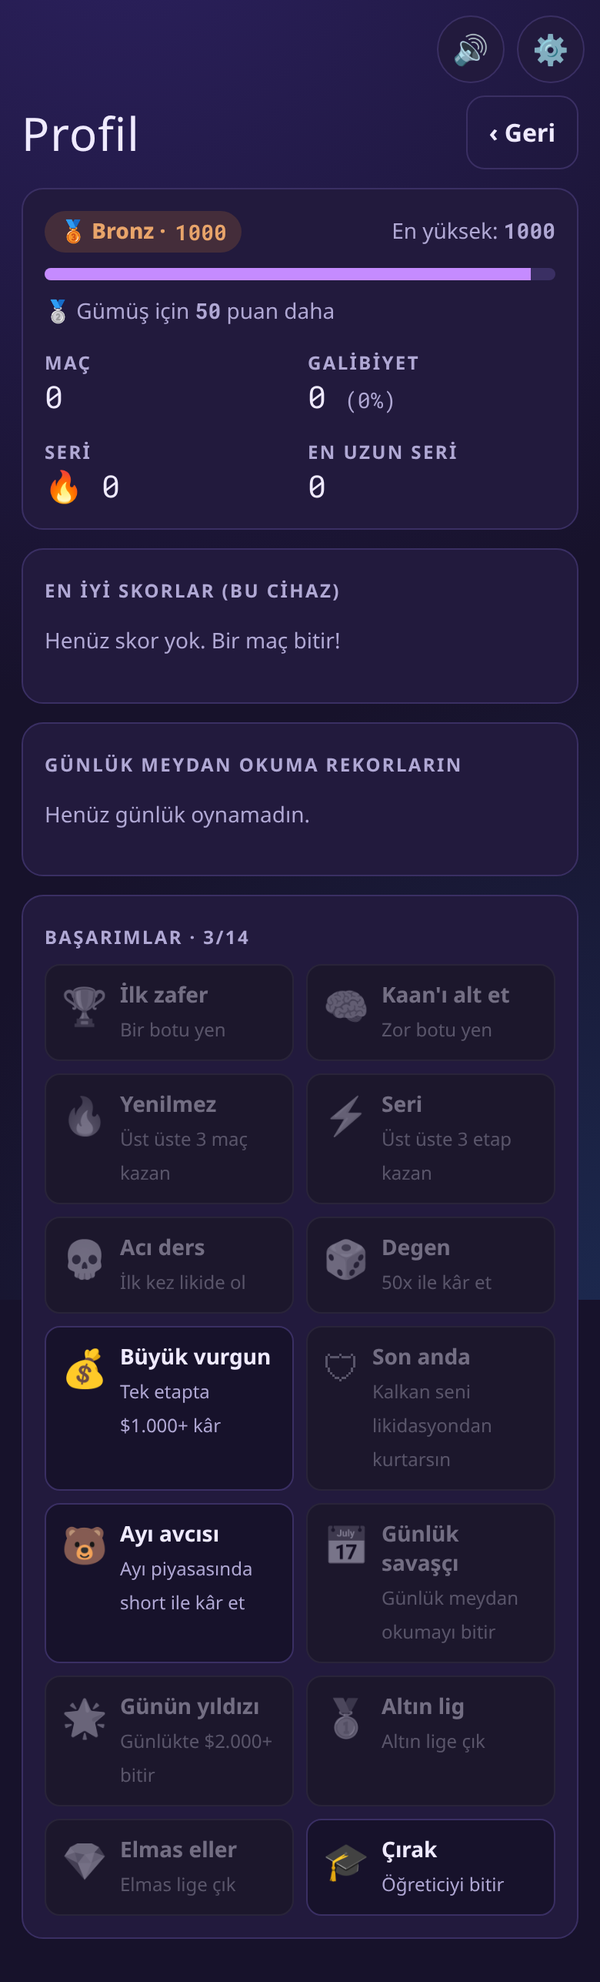
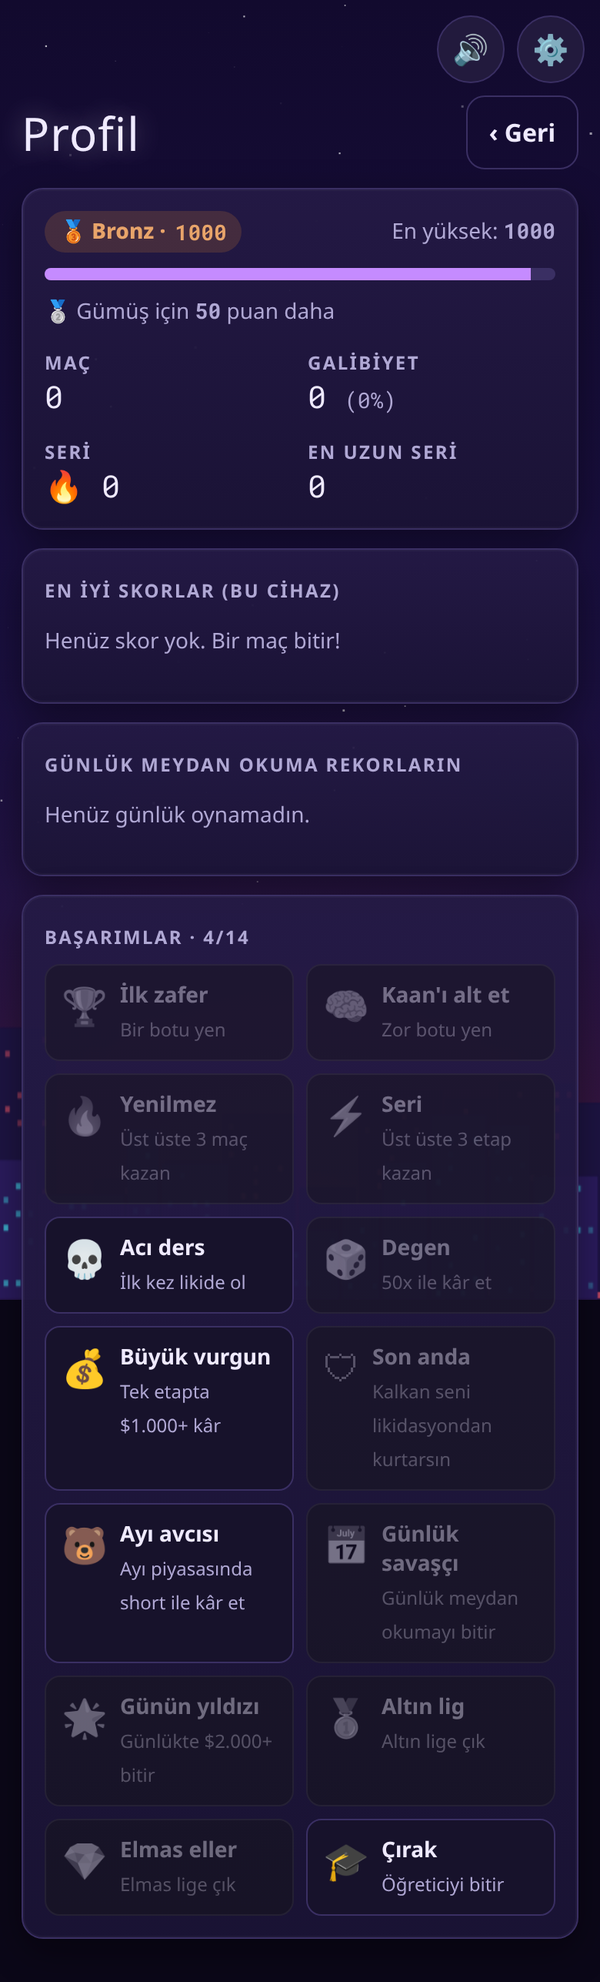
v2.2.0: arena oyun hissi, VS intro, efektler, ödüller, 300ms mum

diff --git a/index.html b/index.html
@@ -175,10 +175,74 @@ td:last-child,th:last-child{text-align:right}
 .sw::after{content:"";position:absolute;left:4px;top:4px;width:24px;height:24px;border-radius:50%;background:#fff;transition:left .15s}
 .sw.on{background:var(--up)} .sw.on::after{left:28px}
 details summary{cursor:pointer;font-weight:700}
+
+/* ===== OYUN HİSSİ: neon arena ===== */
+body{background:#0b0718}
+#bg{position:fixed;inset:0;z-index:-1;width:100%;height:100%;pointer-events:none}
+.card{background:linear-gradient(180deg,#241a45f0,#1b1436f0);box-shadow:0 0 0 1px #ffffff08 inset,0 8px 24px #0006}
+.chartbox{border-color:#5b44c9;box-shadow:0 0 22px #6a4cff40,inset 0 0 40px #6a4cff22;background:linear-gradient(180deg,#140f2b,#0e0a1f)}
+.big{position:relative;overflow:hidden;box-shadow:0 6px 0 rgba(0,0,0,.4),0 0 18px #ffd45c33;text-shadow:0 1px 0 #fff6}
+.big::after{content:"";position:absolute;top:0;left:-60%;width:40%;height:100%;background:linear-gradient(100deg,transparent,#ffffff55,transparent);animation:shine 3s infinite;pointer-events:none}
+@keyframes shine{0%{left:-60%}55%,100%{left:130%}}
+.big:active:not(:disabled){transform:translateY(4px) scale(.985);box-shadow:0 2px 0 rgba(0,0,0,.4)}
+.dirbtn{transition:transform .12s cubic-bezier(.2,1.6,.4,1)}
+.dirbtn.on{transform:scale(1.04)} .dirbtn:active{transform:scale(.93)}
+.closebtn{box-shadow:0 5px 0 rgba(0,0,0,.4)}
+.closebtn:not(:disabled){animation:glowp 1.1s infinite}
+.closebtn:active:not(:disabled){transform:translateY(3px);box-shadow:0 2px 0 rgba(0,0,0,.4)}
+@keyframes glowp{50%{filter:brightness(1.18);box-shadow:0 5px 0 rgba(0,0,0,.4),0 0 24px #ffd45caa}}
+h1,h2{text-shadow:0 0 18px color-mix(in srgb,currentColor 40%,transparent)}
+.arena{position:relative;display:grid;grid-template-columns:1fr auto 1fr;align-items:center;gap:6px;padding:10px 10px 8px;border-radius:16px;background:radial-gradient(ellipse at 50% 120%,#ff5c6c33,transparent 60%),linear-gradient(180deg,#2a1d5a,#160f33);border:1px solid #5b44c9;box-shadow:0 0 24px #6a4cff44}
+.fighter{display:flex;flex-direction:column;align-items:center;gap:4px;min-width:0}
+.ava{width:62px;height:62px;border-radius:50%;display:grid;place-items:center;font-size:36px;line-height:1;background:radial-gradient(circle at 35% 30%,#ffffff33,transparent 60%),var(--c);box-shadow:0 0 0 3px var(--c),0 0 20px var(--c);position:relative;animation:idle 2.2s ease-in-out infinite;will-change:transform}
+.ava.p1{--c:color-mix(in srgb,var(--p1) 65%,#1a1430)} .ava.p2{--c:color-mix(in srgb,var(--p2) 55%,#1a1430)} .ava.mk{--c:color-mix(in srgb,var(--down) 55%,#1a1430)}
+@keyframes idle{50%{transform:translateY(-4px)}}
+.ava.cheer{animation:cheer .5s ease-in-out infinite}
+@keyframes cheer{0%,100%{transform:translateY(0) rotate(0)}30%{transform:translateY(-11px) rotate(-9deg) scale(1.06)}60%{transform:translateY(-4px) rotate(9deg)}}
+.ava.hurt{animation:hurt .28s linear infinite;filter:saturate(.6) brightness(.85)}
+@keyframes hurt{25%{transform:translateX(-4px)}75%{transform:translateX(4px)}}
+.ava.ko{filter:grayscale(1) brightness(.55);transform:rotate(90deg);animation:none}
+.ava .emo{position:absolute;right:-10px;top:-10px;font-size:22px;filter:drop-shadow(0 2px 2px #000)}
+.hp{width:100%;height:12px;border-radius:6px;background:#0009;border:1px solid #ffffff30;overflow:hidden}
+.hp i{display:block;height:100%;transition:width .3s;background:linear-gradient(90deg,#2fbf6f,#b6ffd6);box-shadow:0 0 10px #4fd18b}
+.hp.mid i{background:linear-gradient(90deg,#e0a800,#fff1b8);box-shadow:0 0 10px var(--warn)} .hp.low i{background:linear-gradient(90deg,#d8243a,#ffb0b8);box-shadow:0 0 10px var(--down)}
+.fname{font-size:12px;font-weight:800;text-transform:uppercase;letter-spacing:1px;max-width:100%;overflow:hidden;text-overflow:ellipsis;white-space:nowrap}
+.fbal{font-family:var(--mono);font-size:13px;font-weight:800}
+.vs{font-family:var(--display);font-size:32px;color:var(--warn);text-shadow:0 0 12px var(--warn),0 0 30px #ff5c6c;animation:vsp 1.4s ease-in-out infinite}
+@keyframes vsp{50%{transform:scale(1.12)}}
+#vsov{position:fixed;inset:0;z-index:19;background:radial-gradient(circle at 50% 45%,#3a238aee,#0b0718f8 70%);overflow:hidden}
+#vsov::before{content:"";position:absolute;inset:-50%;background:repeating-conic-gradient(from 0deg,#ffffff08 0 8deg,transparent 8deg 16deg);animation:spin 12s linear infinite}
+@keyframes spin{to{transform:rotate(360deg)}}
+#vsov .side{position:absolute;top:26%;display:flex;flex-direction:column;align-items:center;gap:10px;width:42%}
+#vsov .l{left:4%;animation:inL .55s cubic-bezier(.2,1.4,.4,1) both} #vsov .r{right:4%;animation:inR .55s cubic-bezier(.2,1.4,.4,1) both}
+#vsov .ava{width:108px;height:108px;font-size:64px}
+#vsov .bvs{position:absolute;left:0;right:0;top:30%;text-align:center;font-family:var(--display);font-size:92px;color:var(--warn);text-shadow:0 0 20px var(--warn),0 0 60px var(--down),0 6px 0 #000;animation:slam .45s .45s cubic-bezier(.2,1.6,.4,1) both}
+#vsov .info{position:absolute;left:16px;right:16px;bottom:20%;text-align:center;animation:fadeUp .4s .75s both}
+#vsov .info h2{font-size:44px}
+@keyframes inL{from{transform:translateX(-170%)}} @keyframes inR{from{transform:translateX(170%)}}
+@keyframes slam{from{transform:scale(4) rotate(-14deg);opacity:0}}
+@keyframes fadeUp{from{transform:translateY(30px);opacity:0}}
+#vsov.out{animation:fo .3s forwards} @keyframes fo{to{opacity:0}}
+.callout{position:fixed;left:50%;top:36%;z-index:26;font-family:var(--display);font-size:clamp(46px,14vw,76px);white-space:nowrap;pointer-events:none;letter-spacing:1px;-webkit-text-stroke:2px #1a1430;text-shadow:0 0 22px currentColor,0 6px 0 #1a1430;animation:co 1.4s cubic-bezier(.2,1.5,.4,1) forwards}
+.callout small{display:block;text-align:center;font-size:.36em;-webkit-text-stroke:0;color:#fff}
+@keyframes co{0%{transform:translate(-50%,-50%) scale(.2) rotate(-10deg);opacity:0}18%{transform:translate(-50%,-50%) scale(1.15) rotate(-4deg);opacity:1}30%{transform:translate(-50%,-50%) scale(1) rotate(-4deg)}80%{opacity:1}100%{transform:translate(-50%,-85%) scale(1) rotate(-4deg);opacity:0}}
+.count{font-size:120px;background:#0007;text-shadow:0 0 20px var(--warn),0 0 50px var(--down),0 6px 0 #000}
+.shk{animation:shk .25s}
+@keyframes shk{25%{transform:translate(-4px,2px)}50%{transform:translate(4px,-2px)}75%{transform:translate(-2px,1px)}}
+.trophy{font-size:100px;text-align:center;line-height:1.1;animation:tro 1s cubic-bezier(.2,1.6,.4,1) both;filter:drop-shadow(0 0 26px var(--warn))}
+@keyframes tro{from{transform:scale(0) rotate(-30deg)}}
+.reward{display:grid;grid-template-columns:1fr 1fr;gap:10px}
+.rw{background:var(--bg);border:1px solid var(--line);border-radius:12px;padding:10px;text-align:center}
+.rw b{font-family:var(--display);font-size:30px;display:block;color:var(--warn);text-shadow:0 0 12px #ffd45c88}
+.xpbar{height:16px;border-radius:8px;background:#0009;overflow:hidden;border:1px solid #ffffff25}
+.xpbar i{display:block;height:100%;width:0;background:linear-gradient(90deg,var(--boss),var(--p2));box-shadow:0 0 14px var(--boss);transition:width 1.2s cubic-bezier(.2,.8,.2,1)}
+.lvchip{display:inline-flex;gap:6px;align-items:center;font-weight:800;font-size:13px;color:var(--fg)}
+@media (prefers-reduced-motion:reduce){.ava,.vs,.big::after,.closebtn,#vsov::before,.trophy,.callout{animation:none!important}}
 </style>
 </head>
 <body style="margin:0">
 <div class="topbtns"><button id="mute" aria-label="Sesi aç/kapat">🔊</button><button id="gear" aria-label="Ayarlar">⚙</button></div>
+<canvas id="bg"></canvas>
 <div id="flash"></div>
 <canvas id="cf"></canvas>
 <div id="toast" hidden></div>
@@ -188,7 +252,7 @@ details summary{cursor:pointer;font-weight:700}
 // ===== KAYIT =====
 const ST={k:'ba2',d:{},
  load(){try{this.d=JSON.parse(localStorage.getItem(this.k))||{};}catch(e){this.d={};}
-  const def={vol:.8,sfx:.9,mus:.5,muted:false,music:true,hap:true,timer:25,tutDone:false,rating:1000,peak:1000,games:0,wins:0,mstreak:0,bestMStreak:0,ach:{},lb:[],daily:{}};
+  const def={xp:0,lvl:1,coins:0,vol:.8,sfx:.9,mus:.5,muted:false,music:true,hap:true,timer:25,tutDone:false,rating:1000,peak:1000,games:0,wins:0,mstreak:0,bestMStreak:0,ach:{},lb:[],daily:{}};
   for(const k in def)if(this.d[k]===undefined)this.d[k]=def[k];
   try{if(localStorage.getItem('ba_mute')==='1'&&!localStorage.getItem(this.k))this.d.muted=true;
    for(let i=0;i<localStorage.length;i++){const k=localStorage.key(i);if(k&&k.startsWith('ba_best_')){const dt=k.slice(8),v=+localStorage.getItem(k);if(!(this.d.daily[dt]>=v))this.d.daily[dt]=v;}}}catch(e){}},
@@ -273,6 +337,9 @@ const AU={ctx:null,tense:false,step:0,nextT:0,
    case'bonus':[784,988,1175,1568,1976].forEach((f,i)=>T(f,.3,'triangle',.1,t+i*.07,{echo:1}));break;
    case'ach':[1047,1319,1568,2093].forEach((f,i)=>T(f,.35,'sine',.08,t+i*.08,{echo:1}));N(.6,.05,t,{type:'highpass',f:8000});break;
    case'boss':T(55,1.8,'sawtooth',.22,t,{slide:41,echo:1});T(110,1.6,'square',.07,t,{slide:82});this.kick(t,.7,this.sfxBus);this.kick(t+.45,.5,this.sfxBus);break;
+   case'vs':N(.5,.25,t,{type:'bandpass',f:400,fEnd:4000,q:2,rise:1});this.kick(t+.45,.9,this.sfxBus);T(80,.8,'sawtooth',.18,t+.45,{slide:40});N(.6,.35,t+.45,{f:2500,fEnd:120});T(1568,.3,'square',.04,t+.75,{echo:1});break;
+   case'coin':[1976,2637].forEach((f,i)=>T(f,.12,'square',.035,t+i*.06));break;
+   case'lvl':[523,659,784,1047,1319,1568,2093].forEach((f,i)=>T(f,.4,'triangle',.08,t+i*.07,{echo:1}));this.kick(t,.5,this.sfxBus);break;
    case'fanfare':{const seq=[[523,.12],[659,.12],[784,.12],[1047,.36],[784,.12],[1047,.6]];let d=0;seq.forEach(([f,l])=>{T(f,l+.2,'sawtooth',.05,t+d,{echo:1});T(f,l+.2,'square',.03,t+d,{det:8});d+=l;});
     [262,330,392].forEach(f=>T(f,1.6,'triangle',.06,t+.72));this.kick(t,.5,this.sfxBus);this.kick(t+.72,.6,this.sfxBus);N(1.2,.05,t+.72,{type:'highpass',f:6000});}break;
   }},
@@ -296,13 +363,49 @@ const FX={parts:[],run:false,
   for(let i=0;i<n;i++)this.parts.push({x:W/2+(Math.random()-.5)*W*.5,y:H*.35,vx:(Math.random()-.5)*9,vy:-Math.random()*10-3,r:Math.random()*6+3,c:cols[i%cols.length],a:Math.random()*6,life:110});
   if(!this.run){this.run=true;const ctx=cv.getContext('2d');
    const step=()=>{ctx.setTransform(dpr,0,0,dpr,0,0);ctx.clearRect(0,0,W,H);
-    this.parts.forEach(p=>{p.vy+=.28;p.x+=p.vx;p.y+=p.vy;p.a+=.2;p.life--;ctx.save();ctx.translate(p.x,p.y);ctx.rotate(p.a);ctx.fillStyle=p.c;ctx.fillRect(-p.r/2,-p.r/4,p.r,p.r/2);ctx.restore();});
-    this.parts=this.parts.filter(p=>p.life>0&&p.y<H+20);
+    this.parts.forEach(p=>{p.life--;
+     if(p.k==='spark'){p.vx*=.94;p.vy=p.vy*.94+.12;p.x+=p.vx;p.y+=p.vy;ctx.globalAlpha=Math.max(0,p.life/60);ctx.fillStyle=p.c;ctx.beginPath();ctx.arc(p.x,p.y,p.r,0,7);ctx.fill();ctx.globalAlpha=1;return;}
+     p.vy+=.28;p.x+=p.vx;p.y+=p.vy;p.a+=.2;
+     if(p.k==='coin'){const w=Math.abs(Math.cos(p.a))*p.r+1;ctx.fillStyle='#ffd45c';ctx.beginPath();ctx.ellipse(p.x,p.y,w,p.r,0,0,7);ctx.fill();ctx.fillStyle='#c98a00';ctx.beginPath();ctx.ellipse(p.x,p.y,w*.55,p.r*.55,0,0,7);ctx.fill();return;}
+     ctx.save();ctx.translate(p.x,p.y);ctx.rotate(p.a);ctx.fillStyle=p.c;ctx.fillRect(-p.r/2,-p.r/4,p.r,p.r/2);ctx.restore();});
+    this.parts=this.parts.filter(p=>p.life>0&&p.y<H+40);
     if(this.parts.length)requestAnimationFrame(step);else{ctx.clearRect(0,0,W,H);this.run=false;}};
    requestAnimationFrame(step);}}
 };
 let toastT;const toastQ=[];
+// Fazladan efektler: parçacık, yazı patlaması, sarsıntı
+Object.assign(FX,{
+ burst(x,y,kind,n){if(RM)return;const cv=document.getElementById('cf'),W=innerWidth,H=innerHeight,dpr=devicePixelRatio||1;
+  if(!this.run){cv.width=W*dpr;cv.height=H*dpr;}
+  for(let i=0;i<n;i++){const a=Math.random()*Math.PI*2,v=kind==='boom'?2+Math.random()*9:3+Math.random()*6;
+   this.parts.push(kind==='coin'?{k:'coin',x,y,vx:Math.cos(a)*v*.7,vy:-Math.abs(Math.sin(a))*v-4,r:7+Math.random()*4,a:Math.random()*6,life:80}
+    :{k:'spark',x,y,vx:Math.cos(a)*v,vy:Math.sin(a)*v,r:2+Math.random()*4,c:['#ff5c6c','#ffb340','#ffd45c','#fff'][i%4],life:40+Math.random()*30});}
+  this.confetti(0);},
+ at(el){const r=el?el.getBoundingClientRect():{left:innerWidth/2,top:innerHeight/2,width:0,height:0};return [r.left+r.width/2,r.top+r.height/2];},
+ callout(txt,col,sub){if(RM&&false)return;document.querySelectorAll('.callout').forEach(e=>e.remove());const d=document.createElement('div');d.className='callout';d.style.color=col;d.innerHTML=txt+(sub?`<small>${sub}</small>`:'');document.body.appendChild(d);setTimeout(()=>d.remove(),1450);},
+ shk(el){if(RM||!el)return;el.classList.remove('shk');void el.offsetWidth;el.classList.add('shk');},
+ flashC(col,o=.3){const f=document.getElementById('flash');f.style.background=col;f.style.opacity=o;setTimeout(()=>{f.style.opacity=0;},140);}
+});
 function toast(msg,ms=2600){const t=document.getElementById('toast');t.innerHTML=msg;t.hidden=false;clearTimeout(toastT);toastT=setTimeout(()=>t.hidden=true,ms);}
+
+// ===== HAREKETLİ ARKA PLAN: yıldızlar + paralaks neon şehir =====
+const BG={sp:1,
+ init(){const cv=document.getElementById('bg');this.cv=cv;this.ctx=cv.getContext('2d');this.size();addEventListener('resize',()=>this.size());
+  let last=0;const loop=ts=>{requestAnimationFrame(loop);if(document.hidden)return;const dt=Math.min(50,ts-last);last=ts;this.draw(ts,dt);};
+  if(RM){this.draw(0,0);}else requestAnimationFrame(loop);},
+ size(){const dpr=Math.min(2,devicePixelRatio||1),W=innerWidth,H=innerHeight;this.W=W;this.H=H;this.cv.width=W*dpr;this.cv.height=H*dpr;this.ctx.setTransform(dpr,0,0,dpr,0,0);
+  this.stars=Array.from({length:70},()=>({x:Math.random()*W,y:Math.random()*H*.7,r:Math.random()*1.4+.3,t:Math.random()*6}));
+  this.layers=[this.city(W,H*.22,'#1d1442','#ff5c6c',.25),this.city(W,H*.15,'#2a1b5c','#3fd6e8',.5)];this.off=[0,0];},
+ city(W,h,col,win,dens){const c=document.createElement('canvas'),w=Math.ceil(W*1.5);c.width=w;c.height=Math.ceil(h);const x=c.getContext('2d');let px=0;
+  while(px<w){const bw=18+Math.random()*40,bh=h*(.35+Math.random()*.65);x.fillStyle=col;x.fillRect(px,h-bh,bw,bh);
+   x.fillStyle=win;for(let yy=h-bh+6;yy<h-4;yy+=9)for(let xx=px+4;xx<px+bw-4;xx+=8)if(Math.random()<dens*.5){x.globalAlpha=.25+Math.random()*.5;x.fillRect(xx,yy,3,4);}x.globalAlpha=1;px+=bw+2;}
+  return c;},
+ draw(ts,dt){const c=this.ctx,W=this.W,H=this.H;const g=c.createLinearGradient(0,0,0,H);g.addColorStop(0,'#120a2e');g.addColorStop(.7,'#1c1145');g.addColorStop(1,'#2b0f3a');c.fillStyle=g;c.fillRect(0,0,W,H);
+  c.fillStyle='#fff';this.stars.forEach(s=>{s.t+=dt*.002;c.globalAlpha=.35+.35*Math.sin(s.t);c.fillRect(s.x,s.y,s.r,s.r);s.x-=dt*.004*this.sp;if(s.x<0)s.x=W;});c.globalAlpha=1;
+  const hz=c.createRadialGradient(W/2,H,10,W/2,H,H*.6);hz.addColorStop(0,'#ff5c6c40');hz.addColorStop(1,'transparent');c.fillStyle=hz;c.fillRect(0,H*.4,W,H*.6);
+  this.layers.forEach((L,i)=>{this.off[i]=(this.off[i]+dt*(i?.02:.008)*this.sp)%L.width;const y=H-L.height;c.drawImage(L,-this.off[i],y);c.drawImage(L,L.width-this.off[i],y);});}
+};
+BG.init();
 
 // ===== ÖĞRETİCİ (adım adım vurgulama) =====
 const Coach={on:false,
@@ -400,10 +503,10 @@ const CARDS={
  double:{ic:"✨",n:"Çifte kâr",d:"Bu etapta kârın iki katı olur."}
 };
 const BOTS={
- kolay:{n:"Temkinli Teyze",lv:"Kolay",c:"kolay",d:"Düşük kaldıraç, rastgele kararlar",elo:900},
- orta:{n:"Soğukkanlı Selin",lv:"Orta",c:"orta",d:"Trendi takip eder, kârı erken alır",elo:1200},
- zor:{n:"Kurnaz Kaan",lv:"Zor",c:"zor",d:"Piyasayı okur, riski yönetir, kartları akıllıca oynar",elo:1550},
- ali:{n:"Degen Ali",lv:"Çılgın",c:"ali",d:"25x–50x, asla kapatmaz",elo:1100}
+ kolay:{ic:"👵",n:"Temkinli Teyze",lv:"Kolay",c:"kolay",d:"Düşük kaldıraç, rastgele kararlar",elo:900},
+ orta:{ic:"😎",n:"Soğukkanlı Selin",lv:"Orta",c:"orta",d:"Trendi takip eder, kârı erken alır",elo:1200},
+ zor:{ic:"🦊",n:"Kurnaz Kaan",lv:"Zor",c:"zor",d:"Piyasayı okur, riski yönetir, kartları akıllıca oynar",elo:1550},
+ ali:{ic:"🤪",n:"Degen Ali",lv:"Çılgın",c:"ali",d:"25x–50x, asla kapatmaz",elo:1100}
 };
 const TIERS=[["Bronz",0,"🥉"],["Gümüş",1050,"🥈"],["Altın",1250,"🥇"],["Platin",1450,"💠"],["Elmas",1650,"💎"]];
 const tierOf=r=>{let t=TIERS[0];for(const x of TIERS)if(r>=x[1])t=x;return t;};
@@ -427,7 +530,7 @@ const ACH={
 function unlock(id){if(P.ach[id])return;P.ach[id]=Date.now();ST.save();toastQ.push(`${ACH[id].ic} Başarım açıldı: <b>${ACH[id].n}</b>`);}
 function flushAch(){if(!toastQ.length)return;const m=toastQ.splice(0).join('<br>');setTimeout(()=>{toast(m,3200);AU.sfx('ach');},700);}
 const LEVS=[1,3,5,10,25,50], STAKES=[25,50,100], TPS=[0,50,100,200], SLS=[0,30,60];
-const HIST=24, FUT=70, TICK_MS=190, STREAK_BONUS=150, DAILY_N=10;
+const HIST=24, FUT=70, TICK_MS=300, STREAK_BONUS=150, DAILY_N=10;
 
 let R=Math.random;
 function mulberry(a){return()=>{a|=0;a=a+0x6D2B79F5|0;let t=Math.imul(a^a>>>15,1|a);t=t+Math.imul(t^t>>>7,61|t)^t;return((t^t>>>14)>>>0)/4294967296}}
@@ -524,12 +627,12 @@ function vStart(){
    <div><label class="lbl p1c" for="n1">1. oyuncu</label><input id="n1" maxlength="12" value="${esc(S.names[0])}"></div>
    <div><label class="lbl p2c" for="n2">2. oyuncu</label><input id="n2" maxlength="12" value="${esc(S.names[1]&&!Object.values(BOTS).some(b=>b.n===S.names[1])?S.names[1]:'Oyuncu 2')}"></div></div>`
   :`<div><label class="lbl p1c" for="n1">Adın</label><input id="n1" maxlength="12" value="${esc(S.names[0])}"></div>`;
- const bots= m==="bot"?`<div><span class="lbl">Zorluk / rakip</span><div class="bots" style="margin-top:6px">${Object.entries(BOTS).map(([k,b])=>`<button data-bot="${k}" class="${S.bot===k?'on':''}"><span class="lvl lv-${b.c}">${b.lv}</span><b>${b.n}</b><span class="small" style="font-size:12px">${b.d}</span><span class="small num" style="font-size:12px">Reyting ${b.elo}</span></button>`).join("")}</div></div>`:"";
+ const bots= m==="bot"?`<div><span class="lbl">Zorluk / rakip</span><div class="bots" style="margin-top:6px">${Object.entries(BOTS).map(([k,b])=>`<button data-bot="${k}" class="${S.bot===k?'on':''}"><span class="lvl lv-${b.c}">${b.lv}</span><b>${b.ic} ${b.n}</b><span class="small" style="font-size:12px">${b.d}</span><span class="small num" style="font-size:12px">Reyting ${b.elo}</span></button>`).join("")}</div></div>`:"";
  const best=P.daily[today()];
  const daily= m==="daily"?`<p class="small" style="margin:0">Bugün herkes aynı ${DAILY_N} etabı ve aynı kartları oynar. İstediğin kadar dene, en iyi skorun kaydedilir. ${best?`Bugünkü rekorun: <b class="num">${fmt(best)}</b>`:''}</p>`:"";
  return `
  <div class="row sb" style="align-items:flex-end"><div><span class="lbl">Kripto düellosu</span><h1><span class="b">Boğa</span> &amp; <span class="a">Ayı</span><br>Düellosu</h1></div>
-  <button class="ghost" id="prof" style="padding:8px 10px;display:flex;flex-direction:column;align-items:flex-end;gap:4px">${tierHtml(P.rating)}<span class="small" style="font-size:12px">Profil ve sıralama ›</span></button></div>
+  <button class="ghost" id="prof" style="padding:8px 10px;display:flex;flex-direction:column;align-items:flex-end;gap:4px">${tierHtml(P.rating)}<span class="lvchip">⭐ Sv ${P.lvl} · 🪙 ${P.coins}</span><span class="small" style="font-size:12px">Profil ve sıralama ›</span></button></div>
  ${!P.tutDone?`<button class="big" id="tut" style="background:var(--up)">🎓 İlk kez mi? Nasıl oynanır</button>`:''}
  <div class="card col" style="gap:12px">
   <div class="mode">
@@ -568,6 +671,19 @@ function vCover(){const i=S.picker;return `<div class="cover"><div class="col" s
  <p class="small">${esc(S.names[1-i])}, ekrana bakma 🙈</p>
  <button class="big" id="go" style="background:${i?'var(--p2)':'var(--p1)'};max-width:320px">Hazırım</button></div></div>`}
 
+const avaOf=i=>i===0?'🐂':S.mode==='bot'?BOTS[S.bot].ic:'🐻';
+const fighterHtml=(i,small)=>{const mk=i===1&&NP()===1;const nm=mk?'Piyasa':S.names[i];
+ return `<div class="fighter"><div class="ava ${mk?'mk':i?'p2':'p1'}" id="av${i}">${mk?'🐻':avaOf(i)}<span class="emo" id="em${i}"></span></div>
+  <span class="fname ${mk?'down':i?'p2c':'p1c'}">${esc(nm)}</span>${mk?'<span class="small" style="font-size:12px">rakibin</span>':`<div class="hp" id="hp${i}"><i style="width:${hpW(S.bal[i])}%"></i></div><span class="fbal" id="fb${i}">${fmt(S.bal[i])}</span>`}</div>`;};
+const hpW=v=>Math.max(2,Math.min(100,v/20));
+function setHp(i,v){const h=$('#hp'+i);if(!h)return;h.querySelector('i').style.width=hpW(v)+'%';h.className='hp'+(v<300?' low':v<700?' mid':'');const b=$('#fb'+i);if(b)b.textContent=fmt(v);}
+function react(i,st){const a=$('#av'+i);if(!a||a.dataset.st===st)return;a.dataset.st=st;a.className=a.className.replace(/ (cheer|hurt|ko)/g,'')+(st==='idle'?'':' '+st);
+ const e=$('#em'+i);if(e)e.textContent={cheer:'🔥',hurt:'💦',ko:'💀',win:'💰',idle:''}[st]||'';}
+function showVS(done){const st=stg();if(RM){done();return;}const ov=document.createElement('div');ov.id='vsov';
+ ov.innerHTML=`<div class="side l">${fighterHtml(0)}</div><div class="side r">${fighterHtml(1)}</div><div class="bvs">VS</div>
+ <div class="info"><span class="lbl">Etap ${S.stage+1}/${S.stages.length}</span><h2>$${esc(st.coin)}</h2><span class="tag r-${st.r}">${RNAME[st.r]}</span>${st.boss?' <span class="bossbadge">PATRON ×2</span>':''}<p class="small" style="margin-top:10px">Geçmek için dokun</p></div>`;
+ ov.querySelectorAll('[id]').forEach(e=>e.removeAttribute('id'));document.body.appendChild(ov);AU.sfx('vs');setTimeout(()=>FX.vibrate(60),450);
+ let gone=false;const end=()=>{if(gone)return;gone=true;ov.classList.add('out');setTimeout(()=>{ov.remove();done();},280);};ov.onclick=end;setTimeout(end,2300);}
 function liqPx(entry,dir,lev){return dir==='short'?entry*(1+.9/lev):entry*(1-.9/lev);}
 function pickSummary(i){const pk=S.pick[i],e=S.series[HIST-1];
  if(!pk.dir)return '👆 Önce yön seç: fiyat <b class="up">yükselecek</b> mi, <b class="down">düşecek</b> mi?';
@@ -614,8 +730,9 @@ function vRace(){const st=stg();
   <span class="pnl num" id="pnl${i}">$0</span><span class="num small" id="pp${i}"></span>
   ${pk.dir==='flat'?'':`<span class="small">💀 Likit: <b class="num down" id="lq${i}">-</b></span>`}
   <span class="status" id="st${i}"></span>${ctrl}</div>`};
- return `<div class="row sb"><h2 style="font-size:24px">$${esc(st.coin)} ${st.boss?'<span class="bossbadge">×2</span>':''}</h2><span class="small">Etap ${S.stage+1}/${S.stages.length} · <span class="tag r-${st.r}">${RNAME[st.r]}</span></span></div>
- <div class="chartbox"><canvas class="ch" id="cv" style="height:270px"></canvas>
+ return `<div class="arena" id="arena">${fighterHtml(0)}<div style="text-align:center"><div class="vs">VS</div><span class="small" style="font-size:12px">Etap ${S.stage+1}/${S.stages.length}</span></div>${fighterHtml(1)}</div>
+ <div class="row sb"><h2 style="font-size:22px">$${esc(st.coin)} ${st.boss?'<span class="bossbadge">×2</span>':''}</h2><span class="tag r-${st.r}">${RNAME[st.r]}</span></div>
+ <div class="chartbox" id="cbox"><canvas class="ch" id="cv" style="height:240px"></canvas>
   <div class="chart-hud"><span class="lbl">Fiyat</span><span class="num" id="px" style="font-size:22px;font-weight:800">${pxf(S.series[HIST-1])}</span><span class="num small" id="pxc">+0.0%</span></div>
   <div class="news" id="news" hidden></div>
   <div class="count" id="count">${'HAZIR'}</div></div>
@@ -666,14 +783,18 @@ function statTable(){const s=S.stats,row=(l,f,hi=1)=>{const a=f(s[0]),b=f(s[1]);
   ${row('Kullanılan kart',x=>x.cards)}</table>`;}
 function vEnd(){
  if(NP()===1){const best=P.daily[S.date];
-  return `<div><span class="lbl">Günlük meydan okuma · ${S.date}</span><h1 class="${S.bal[0]>=1000?'up':'down'}">${fmt(S.bal[0])}</h1><p class="small" style="margin:6px 0 0">${S.bankrupt!=null?'İflas ettin.':S.newBest?'🎉 Bugünün yeni rekoru!':best?'Bugünkü rekorun: '+fmt(best):''}</p></div>
+  return `${S.reward?`<div class="trophy">${S.reward.won?'🏆':NP()===2&&S.bal[0]===S.bal[1]?'🤝':'💀'}</div>
+ <div class="card col"><div class="reward"><div class="rw"><span class="lbl">XP</span><b id="rwx">+0</b></div><div class="rw"><span class="lbl">Coin 🪙</span><b id="rwc">+0</b></div></div>
+  <div class="row sb"><span class="lbl">Seviye <b id="lvn" style="color:var(--fg);font-size:16px">${S.reward.up?S.reward.from.lvl:P.lvl}</b></span><span class="small">${P.xp}/${P.lvl*300} XP</span></div><div class="xpbar"><i id="xpb"></i></div></div>`:''}<div><span class="lbl">Günlük meydan okuma · ${S.date}</span><h1 class="${S.bal[0]>=1000?'up':'down'}">${fmt(S.bal[0])}</h1><p class="small" style="margin:6px 0 0">${S.bankrupt!=null?'İflas ettin.':S.newBest?'🎉 Bugünün yeni rekoru!':best?'Bugünkü rekorun: '+fmt(best):''}</p></div>
   ${scorebar()}
   <div class="card col"><span class="lbl">Arkadaşlarına meydan oku</span><div class="share" id="sh">${esc(shareText())}</div><button class="ghost" id="cp">📤 Skoru paylaş</button></div>
   <div class="grid2"><button class="big" id="again" style="background:var(--warn)">Tekrar dene</button><button class="big ghost" id="menu">Ana menü</button></div>`;}
  const [a,b]=S.bal;const w=a===b?-1:a>b?0:1;
  const tt=titles();
  const rd=S.ratingDelta;
- return `<div><span class="lbl">${S.tutorial?'Eğitim maçı bitti':'Maç bitti'}</span><h1 class="${w===0?'p1c':w===1?'p2c':''}">${w===-1?'Berabere!':esc(S.names[w])+'<br>kazandı!'}</h1></div>
+ return `${S.reward?`<div class="trophy">${S.reward.won?'🏆':NP()===2&&S.bal[0]===S.bal[1]?'🤝':'💀'}</div>
+ <div class="card col"><div class="reward"><div class="rw"><span class="lbl">XP</span><b id="rwx">+0</b></div><div class="rw"><span class="lbl">Coin 🪙</span><b id="rwc">+0</b></div></div>
+  <div class="row sb"><span class="lbl">Seviye <b id="lvn" style="color:var(--fg);font-size:16px">${S.reward.up?S.reward.from.lvl:P.lvl}</b></span><span class="small">${P.xp}/${P.lvl*300} XP</span></div><div class="xpbar"><i id="xpb"></i></div></div>`:''}<div><span class="lbl">${S.tutorial?'Eğitim maçı bitti':'Maç bitti'}</span><h1 class="${w===0?'p1c':w===1?'p2c':''}">${w===-1?'Berabere!':esc(S.names[w])+'<br>kazandı!'}</h1></div>
  ${rd!=null?`<div class="card row sb"><div><span class="lbl">Reyting</span><div>${tierHtml(P.rating)}</div></div><b class="num ${rd>=0?'up':'down'}" style="font-size:24px">${rd>=0?'+':''}${rd}</b></div>`:''}
  ${S.tutorial?`<div class="card"><b>🎓 Öğretici tamam!</b><p class="small" style="margin:6px 0 0">Artık gerçek maçlara hazırsın. Bota karşı maçlar reytingini değiştirir; Kolay'dan başla, Zor'u yenmeye çalış.</p></div>`:''}
  ${scorebar()}
@@ -725,6 +846,9 @@ function draw(cv,p,upto,opt={}){
   const y1=Y(Math.max(o,cl)),y2=Y(Math.min(o,cl));c.fillRect(x-cw/2,y1,cw,Math.max(1.5,y2-y1));
  }
  c.globalAlpha=1;
+ if(upto>1){const tc=opt.entry!=null?(p[upto-1]>=p[opt.entry]?'#7dffb5':'#ff8a96'):'#c9b8ff';c.save();c.strokeStyle=tc;c.lineWidth=2;c.shadowColor=tc;c.shadowBlur=12;c.globalAlpha=.85;c.beginPath();
+  const s0=Math.max(0,opt.entry!=null?opt.entry:0);c.moveTo(X(s0),Y(p[s0]));for(let i=s0+1;i<upto;i++)c.lineTo(X(i),Y(p[i]));c.stroke();
+  c.globalAlpha=1;c.fillStyle='#fff';c.shadowBlur=18;c.beginPath();c.arc(X(upto-1),Y(p[upto-1]),4,0,7);c.fill();c.restore();}
  (opt.lines||[]).forEach(l=>hline(l.v,l.col,l.lab,l.dash));
  if(opt.entry!=null)hline(p[opt.entry],'#ffd45c','Giriş',false);
  // son fiyat etiketi
@@ -773,7 +897,7 @@ const bind={
  },
  profile(){$('#back').onclick=()=>{S.screen='start';render();};},
  intro(){draw($('#cv'),S.series,HIST,{total:HIST});$('#go').onclick=()=>{S.picker=0;S.screen='pick';render();};
-  if(needCoach('intro')){S.coached.intro=1;Coach.run(TUT.intro);}},
+  showVS(()=>{if(needCoach('intro')&&S.screen==='intro'){S.coached.intro=1;Coach.run(TUT.intro);}});},
  cover(){$('#go').onclick=()=>{S.screen='pick';render();}},
  pick(){
   const i=S.picker,pk=S.pick[i];
@@ -793,6 +917,7 @@ const bind={
  result(){const r=S.last;draw($('#cv'),S.series,r.endTick+1,{entry:HIST-1,marks:r.marks});
   $('#go').onclick=()=>{if(S.over){S.screen='end';render();const won=NP()===1?S.bal[0]>=1000:S.bal[0]>=S.bal[1]||S.mode==='duo';AU.sfx(won?'fanfare':'lose');if(won)FX.confetti(160);flushAch();}else{S.stage++;newStage();}}},
  end(){
+  animRewards();const w=S.reward&&S.reward.won;setTimeout(()=>FX.callout(w?'ZAFER!':'YENİLGİ',w?'#ffd45c':'#ff5c6c'),250);
   $('#again').onclick=()=>newGame();
   $('#menu').onclick=()=>{S.tutorial=false;S.screen='start';render();};
   const cp=$('#cp');if(cp)cp.onclick=async()=>{const txt=shareText();
@@ -861,13 +986,16 @@ function runRace(){
   if(why==='liq'){
    if(s.card==='shield'){s.pnl=-s.margin*.3;s.note='Likide oluyordu, kalkan kurtardı 🛡';$('#st'+i).textContent='🛡 Kalkan kurtardı!';AU.sfx('shield');if(i===0&&!isBot(i))unlock('shield');}
    else{s.pnl=-s.margin;s.note=`Likide oldu (${s.lev}x)`;$('#st'+i).innerHTML='<span class="liq">💀 LİKİDE OLDU!</span>';AU.sfx('liq');FX.liq();S.stats[i].liqs++;if(i===0)unlock('liq');}
-   s.mark={i:t,col:'#ff5c6c',t:'💀'};
+   s.mark={i:t,col:'#ff5c6c',t:'💀'};{const [x,y]=FX.at($('#av'+i));FX.burst(x,y,'boom',60);react(i,'ko');FX.callout(s.card==='shield'?'KALKAN!':'LİKİDE!',s.card==='shield'?'#c58bff':'#ff5c6c',esc(S.names[i]));FX.shk(document.getElementById('app'));}
   }else{
    s.pnl=Math.max(-s.margin,v);
    s.note={end:'Etap sonunda kapandı',manual:'Erken kapattı',tp:'Kâr al tetiklendi',sl:'Zarar kes tetiklendi'}[why];
    $('#st'+i).textContent={end:'Süre doldu',manual:'Kapattı ✓',tp:'🎯 Kâr alındı',sl:'Zarar kesildi'}[why];
    s.mark={i:t,col:i?'#3fd6e8':'#ffb340',t:i?'P2':'P1'};
-   if(why!=='end'){if(v>0)AU.sfx('profit',v/s.margin);else AU.sfx('loss');if(v>=s.margin)FX.confetti(50);}
+   if(why!=='end'){if(v>0)AU.sfx('profit',v/s.margin);else AU.sfx('loss');}
+   if(v>0){const [x,y]=FX.at($('#hud'+i));FX.burst(x,y,'coin',Math.min(40,8+Math.round(v/s.margin*20)));react(i,'win');
+    if(why!=='end'&&!isBot(i))FX.callout(v>=s.margin?'MEGA KÂR!':'KÂR!',v>=s.margin?'#ffd45c':'#4fd18b',sfmt(v));if(v>=s.margin)FX.confetti(50);}
+   else if(why!=='end')react(i,'hurt');
    if(why==='end'&&v>0)S.stats[i].holds++;
   }
   const b=$('#cl'+i);if(b)b.disabled=true;upd(i);};
@@ -879,9 +1007,9 @@ function runRace(){
  const redraw=()=>draw(cv,p,t+1,{total:p.length,entry:e,lines:lines(),marks:st.map(s=>s.mark).filter(Boolean)});
  redraw();st.forEach((s,i)=>upd(i));
  const cd=$('#count');
- const startCd=()=>{AU.setTense(true);let n=3;
+ const startCd=()=>{AU.setTense(true);BG.sp=4;let n=3;
   const tickCd=()=>{cd.classList.remove('pop');void cd.offsetWidth;cd.classList.add('pop');
-   if(n>0){cd.textContent=n;AU.sfx('beep',n);FX.vibrate(30);n--;setTimeout(tickCd,650);}else{cd.textContent='BAŞLA!';AU.sfx('go');setTimeout(()=>{cd.hidden=true;go();},420);}};
+   if(n>0){cd.textContent=n;AU.sfx('beep',n);FX.vibrate(30);n--;setTimeout(tickCd,650);}else{cd.textContent='SAVAŞ!';AU.sfx('go');FX.flashC('#ffd45c',.25);setTimeout(()=>{cd.hidden=true;go();},420);}};
   setTimeout(tickCd,S.pick.some(x=>x.card)?900:200);};
  if(needCoach('race')){S.coached.race=1;cd.hidden=true;Coach.run(TUT.race,()=>{P.tutDone=true;ST.save();unlock('tut');cd.hidden=false;startCd();});}else startCd();
  function botLive(i){const s=st[i];if(!s.open)return;const r=s.pnl/s.margin;s.peak=Math.max(s.peak,r);
@@ -892,14 +1020,18 @@ function runRace(){
   else if(S.bot==='ali'&&r>.3&&s.adds<2&&Math.random()<.08)addP(i);}
  function go(){for(let i=0;i<np;i++){const c=$('#cl'+i);if(c&&st[i].open)c.disabled=false;upd(i);}
   timer=setInterval(()=>{if(!document.body.contains(cv)){clearInterval(timer);return;}t++;
-   if(S.news&&t===S.news.tick){const nw=$('#news');nw.className='news '+(S.news.pos?'pos':'neg');nw.innerHTML=`<small>⚡ SON DAKİKA</small>${esc(S.news.text)}`;nw.hidden=false;AU.sfx('news');FX.vibrate(120);setTimeout(()=>{if(nw)nw.hidden=true;},3000);}
+   if(S.news&&t===S.news.tick){const nw=$('#news');nw.className='news '+(S.news.pos?'pos':'neg');nw.innerHTML=`<small>⚡ SON DAKİKA</small>${esc(S.news.text)}`;nw.hidden=false;AU.sfx('news');FX.flashC(S.news.pos?'#4fd18b':'#ff5c6c',.35);FX.shk($('#cbox'));FX.vibrate(120);setTimeout(()=>{if(nw)nw.hidden=true;},3000);}
+   {const mv=p[t]/p[t-1]-1,m2=p[t]/p[t-2]-1;if(Math.abs(mv)>.035){FX.shk($('#cbox'));FX.flashC(mv>0?'#4fd18b':'#ff5c6c',.18);FX.vibrate(25);}
+    st.forEach((s,i)=>{if(!s.open)return;react(i,m2*s.d>.003?'cheer':m2*s.d<-.003?'hurt':'idle');setHp(i,S.bal[i]+s.pnl);
+     const rr=s.pnl/s.margin;if(!isBot(i)&&!s.rocket&&rr>=1){s.rocket=1;FX.callout('ROKET! 🚀','#ffd45c','teminat ×2');AU.sfx('bonus');}});
+    if(np===1)react(1,m2*st[0].d<-.003?'cheer':m2*st[0].d>.003?'hurt':'idle');}
    for(let i=0;i<np;i++){const s=st[i];if(!s.open)continue;s.pnl=value(s,t);const r=s.pnl/s.margin;
     if(r<=-.9)closeP(i,'liq');else if(s.tp&&r>=s.tp/100)closeP(i,'tp');else if(s.sl&&r<=-s.sl/100)closeP(i,'sl');else{upd(i);if(isBot(i))botLive(i);}}
    $('#px').textContent=pxf(p[t]);const ch=p[t]/p[e]-1;const pc=$('#pxc');pc.textContent=pct(ch);pc.className='num small '+(ch>=0?'up':'down');
    const pr=$('#prog i');if(pr)pr.style.width=Math.max(0,100*(1-(t-e)/total))+'%';const pt=$('#progt');if(pt)pt.textContent=Math.ceil((total-(t-e))*TICK_MS/1000)+' sn';
    if((t-e)%2===0)AU.sfx('chart',p[t]-p[t-3]);
    redraw();
-   if(t>=p.length-1||st.every(s=>!s.open)){clearInterval(timer);
+   if(t>=p.length-1||st.every(s=>!s.open)){clearInterval(timer);BG.sp=1;
     for(let i=0;i<np;i++)closeP(i,'end');setTimeout(()=>finish(st,t),1200);}
   },TICK_MS);}
 }
@@ -933,15 +1065,26 @@ function finish(st,endTick){
  const bk=S.bal.findIndex(b=>b<1);
  S.bankrupt=bk>=0?bk:null;
  S.over=bk>=0||S.stage===S.stages.length-1;
- if(S.over)matchOver();
+ if(S.over){grantRewards();matchOver();}
  S.last={res,bonus,endTick,marks:st.map(s=>s.mark).filter(Boolean),move:endMv};
  AU.setTense(false);
  S.screen='result';render();
- if(bonus.length){AU.sfx('bonus');toast(bonus.join("<br>"));FX.confetti(70);}
+ if(bonus.length){AU.sfx('bonus');toast(bonus.join("<br>"));FX.confetti(70);FX.callout('SERİ x3!','#c58bff','+'+fmt(STREAK_BONUS));}
  else AU.sfx(np===2?(S.wins[S.stage]===-1?'draw':S.wins[S.stage]===0||S.mode==='duo'?'win':'lose'):(res[0].pnl>0?'win':res[0].pnl<0?'lose':'draw'));
  if(!S.over)flushAch();
 }
+function grantRewards(){const won=NP()===1?S.bal[0]>1000:S.bal[0]>S.bal[1];const s=S.stats[0];
+ const xp=Math.min(400,s.stageW*25+(won?120:40)+Math.max(0,Math.round((S.bal[0]-1000)/20))+(S.mode==='bot'&&won&&S.bot==='zor'?80:0));
+ const coins=Math.max(5,Math.round(S.bal[0]/50));const from={lvl:P.lvl,xp:P.xp};
+ P.xp+=xp;P.coins+=coins;let up=0;while(P.xp>=P.lvl*300){P.xp-=P.lvl*300;P.lvl++;up++;}
+ S.reward={xp,coins,from,up,won};}
 function addLB(score,opp){P.lb.push({s:Math.round(score),o:opp,d:today()});P.lb.sort((a,b)=>b.s-a.s);P.lb=P.lb.slice(0,10);}
+function animRewards(){const r=S.reward;if(!r)return;const bar=$('#xpb');if(!bar)return;const need=l=>l*300;
+ bar.style.transition='none';bar.style.width=(100*r.from.xp/need(r.from.lvl))+'%';void bar.offsetWidth;bar.style.transition='';
+ let n=0;const cn=$('#rwc'),cx=$('#rwx');const tk=setInterval(()=>{n++;if(cn)cn.textContent='+'+Math.round(r.coins*n/20);if(cx)cx.textContent='+'+Math.round(r.xp*n/20);if(n%4===0)AU.sfx('coin');if(n>=20)clearInterval(tk);},45);
+ if(r.up){setTimeout(()=>{bar.style.width='100%';},60);setTimeout(()=>{bar.style.transition='none';bar.style.width='0%';void bar.offsetWidth;bar.style.transition='';bar.style.width=(100*P.xp/need(P.lvl))+'%';
+   const l=$('#lvn');if(l)l.textContent=P.lvl;FX.callout('SEVİYE '+P.lvl+'!','#3fd6e8','seviye atladın');AU.sfx('lvl');FX.confetti(90);},1350);}
+ else setTimeout(()=>{bar.style.width=(100*P.xp/need(P.lvl))+'%';},60);}
 function matchOver(){
  if(NP()===1){S.newBest=false;const old=P.daily[S.date]||0;if(S.bal[0]>old){P.daily[S.date]=Math.round(S.bal[0]);S.newBest=true;}
   addLB(S.bal[0],'📅 Günlük');unlock('daily');if(S.bal[0]>=2000)unlock('d2k');ST.save();return;}

diff --git a/sw.js b/sw.js
@@ -1,5 +1,5 @@
 // Çevrimdışı önbellek. Yeni sürüm yayınlarken VERSION'ı artır.
-const VERSION='ba-v2.1.0';
+const VERSION='ba-v2.2.0';
 const FILES=['./','./index.html','./manifest.json','./icons/icon-192.png','./icons/icon-512.png','./icons/maskable-512.png'];
 self.addEventListener('install',e=>{e.waitUntil(caches.open(VERSION).then(c=>c.addAll(FILES)).then(()=>self.skipWaiting()));});
 self.addEventListener('activate',e=>{e.waitUntil(caches.keys().then(ks=>Promise.all(ks.filter(k=>k!==VERSION).map(k=>caches.delete(k)))).then(()=>self.clients.claim()));});
